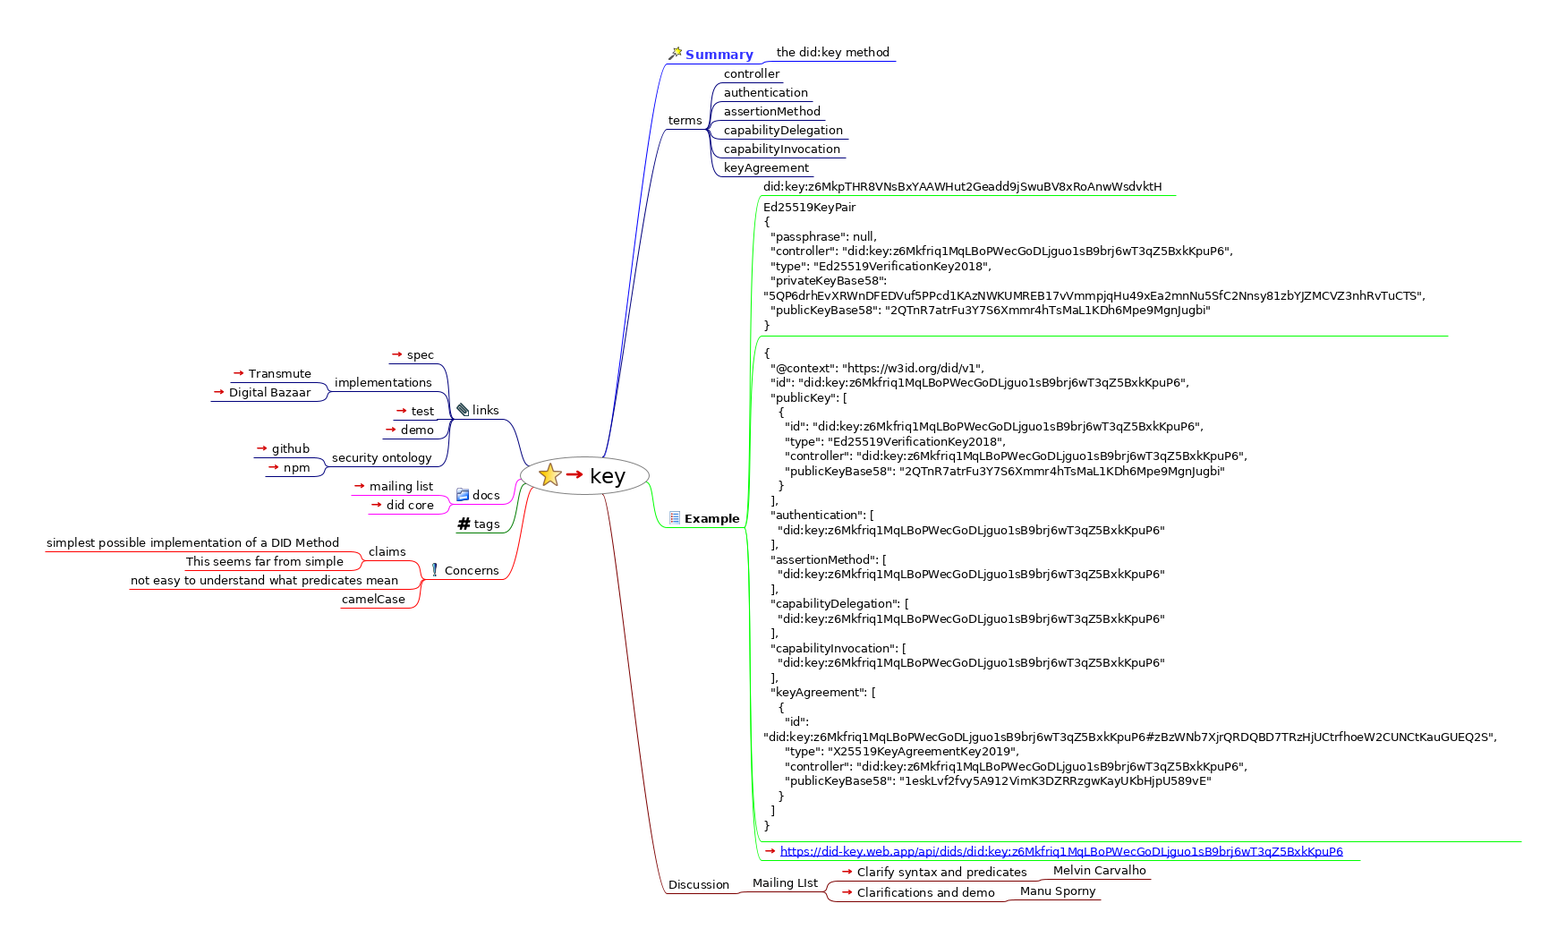
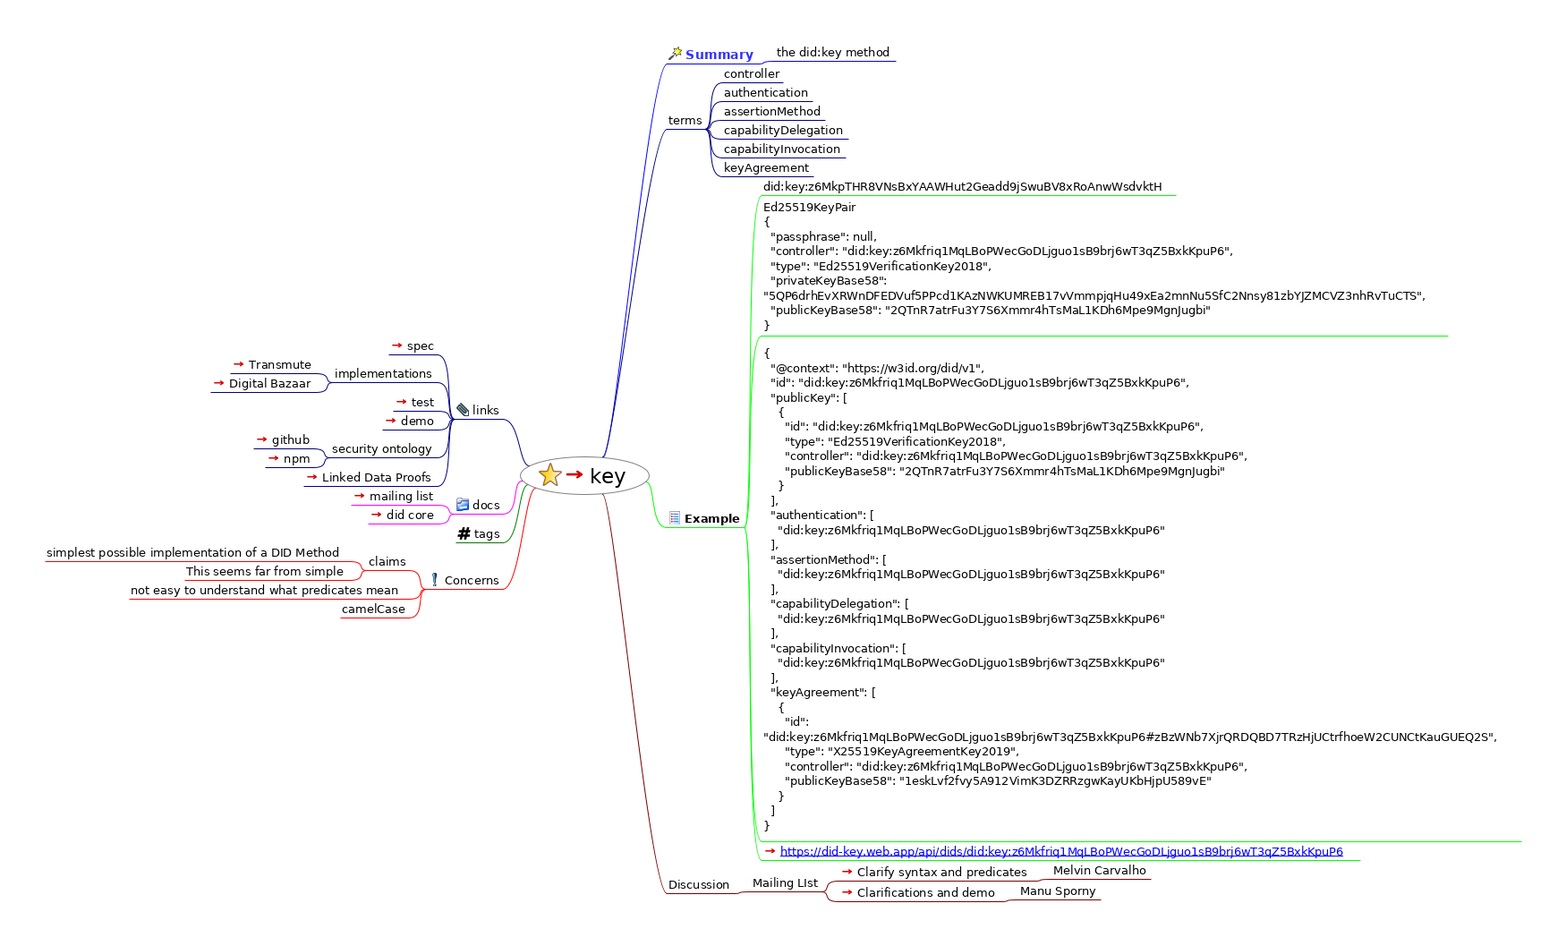
ld proofs

Changed region(s): [[0.0309, 0.3434, 0.3394, 0.6556]]

diff --git a/w3c/did/key.html b/w3c/did/key.html
@@ -53,28 +53,29 @@
 <area shape="rect" href="https://lists.w3.org/Archives/Public/public-credentials/2019Nov/0101.html" alt="Clarifications and demo" title="Clarifications and demo" coords="937,989,1119,1007" />
 <area shape="rect" href="#FMID_1746695661FM" alt="Manu Sporny" title="Manu Sporny" coords="1138,987,1230,1005" />
 <area shape="rect" href="#FMID_808607355FM" alt="links" title="links" coords="508,450,562,468" />
-<area shape="rect" href="https://digitalbazaar.github.io/did-method-key/" alt="spec" title="spec" coords="434,388,489,406" />
-<area shape="rect" href="#FMID_266162917FM" alt="implementations" title="implementations" coords="372,419,489,437" />
-<area shape="rect" href="https://github.com/transmute-industries/did-key" alt="Transmute" title="Transmute" coords="257,409,353,427" />
-<area shape="rect" href="https://github.com/digitalbazaar/did-method-key-js#table-of-contents" alt="Digital Bazaar" title="Digital Bazaar" coords="235,430,353,448" />
-<area shape="rect" href="https://github.com/digitalbazaar/did-method-key-js/blob/master/tests/driver.spec.js" alt="test" title="test" coords="439,451,489,469" />
-<area shape="rect" href="https://did-key.web.app/" alt="demo" title="demo" coords="427,472,489,490" />
-<area shape="rect" href="#FMID_1879313086FM" alt="security ontology" title="security ontology" coords="369,503,489,521" />
-<area shape="rect" href="https://github.com/w3c-dvcg/security-vocab/blob/master/contexts/security-v2.jsonld#L39" alt="github" title="github" coords="283,493,350,511" />
-<area shape="rect" href="https://www.npmjs.com/package/security-context" alt="npm" title="npm" coords="296,514,350,532" />
-<area shape="rect" href="#FMID_1100215200FM" alt="docs" title="docs" coords="508,545,562,563" />
-<area shape="rect" href="https://lists.w3.org/Archives/Public/public-credentials/2019Nov/thread.html" alt="mailing list" title="mailing list" coords="392,535,489,553" />
-<area shape="rect" href="https://w3c.github.io/did-core/" alt="did core" title="did core" coords="411,556,489,574" />
-<area shape="rect" href="#FMID_466759422FM" alt="tags" title="tags" coords="509,577,562,595" />
-<area shape="rect" href="#FMID_1414960960FM" alt="Concerns" title="Concerns" coords="476,629,562,647" />
-<area shape="rect" href="#FMID_1039236328FM" alt="claims" title="claims" coords="410,608,457,626" />
-<area shape="rect" href="#FMID_1634354247FM" alt="simplest possible implementation of a DI ..." title="simplest possible implementation of a DI ..." coords="50,598,391,616" />
-<area shape="rect" href="#FMID_1386411919FM" alt="This seems far from simple" title="This seems far from simple" coords="206,619,391,637" />
-<area shape="rect" href="#FMID_139120582FM" alt="not easy to understand what predicates m ..." title="not easy to understand what predicates m ..." coords="144,640,457,658" />
-<area shape="rect" href="#FMID_342298248FM" alt="camelCase" title="camelCase" coords="380,661,457,679" />
+<area shape="rect" href="https://digitalbazaar.github.io/did-method-key/" alt="spec" title="spec" coords="434,378,489,396" />
+<area shape="rect" href="#FMID_266162917FM" alt="implementations" title="implementations" coords="372,409,489,427" />
+<area shape="rect" href="https://github.com/transmute-industries/did-key" alt="Transmute" title="Transmute" coords="257,399,353,417" />
+<area shape="rect" href="https://github.com/digitalbazaar/did-method-key-js#table-of-contents" alt="Digital Bazaar" title="Digital Bazaar" coords="235,420,353,438" />
+<area shape="rect" href="https://github.com/digitalbazaar/did-method-key-js/blob/master/tests/driver.spec.js" alt="test" title="test" coords="439,441,489,459" />
+<area shape="rect" href="https://did-key.web.app/" alt="demo" title="demo" coords="427,462,489,480" />
+<area shape="rect" href="#FMID_1879313086FM" alt="security ontology" title="security ontology" coords="369,493,489,511" />
+<area shape="rect" href="https://github.com/w3c-dvcg/security-vocab/blob/master/contexts/security-v2.jsonld#L39" alt="github" title="github" coords="283,483,350,501" />
+<area shape="rect" href="https://www.npmjs.com/package/security-context" alt="npm" title="npm" coords="296,504,350,522" />
+<area shape="rect" href="https://w3c-dvcg.github.io/ld-proofs/#proof-purpose" alt="Linked Data Proofs" title="Linked Data Proofs" coords="339,525,489,543" />
+<area shape="rect" href="#FMID_1100215200FM" alt="docs" title="docs" coords="508,556,562,574" />
+<area shape="rect" href="https://lists.w3.org/Archives/Public/public-credentials/2019Nov/thread.html" alt="mailing list" title="mailing list" coords="392,546,489,564" />
+<area shape="rect" href="https://w3c.github.io/did-core/" alt="did core" title="did core" coords="411,567,489,585" />
+<area shape="rect" href="#FMID_466759422FM" alt="tags" title="tags" coords="509,588,562,606" />
+<area shape="rect" href="#FMID_1414960960FM" alt="Concerns" title="Concerns" coords="476,640,562,658" />
+<area shape="rect" href="#FMID_1039236328FM" alt="claims" title="claims" coords="410,619,457,637" />
+<area shape="rect" href="#FMID_1634354247FM" alt="simplest possible implementation of a DI ..." title="simplest possible implementation of a DI ..." coords="50,609,391,627" />
+<area shape="rect" href="#FMID_1386411919FM" alt="This seems far from simple" title="This seems far from simple" coords="206,630,391,648" />
+<area shape="rect" href="#FMID_139120582FM" alt="not easy to understand what predicates m ..." title="not easy to understand what predicates m ..." coords="144,651,457,669" />
+<area shape="rect" href="#FMID_342298248FM" alt="camelCase" title="camelCase" coords="380,672,457,690" />
 </map>
 
[1 lines of base64/hex data omitted]
     <a http-equiv="content-type" content="text/html; charset=utf-8" href="https://did-key.web.app/api/dids/did:key:z6Mkfriq1MqLBoPWecGoDLjguo1sB9brj6wT3qZ5BxkKpuP6">https://did-key.web.app/api/dids/did:key:z6Mkfriq1MqLBoPWecGoDLjguo1sB9brj6wT3qZ5BxkKpuP6</a>
-  </a> <a href="https://did-key.web.app/api/dids/did:key:z6Mkfriq1MqLBoPWecGoDLjguo1sB9brj6wT3qZ5BxkKpuP6"><img src="key.html_files/ilink.png" alt="User Link" style="border-width:0" /></a></div></div></div></div><div class="node"><img src="key.html_files/hide.png" class="hideshow" alt="hide" onClick="toggle(&quot;N66981&quot;)" id="imgN66981" /><a id="FMID_387619455FM" /><div class="nodecontent" style="color:#000000;font-size:83%;">Discussion</div><div class="content" id="N66981"><div class="node"><img src="key.html_files/hide.png" class="hideshow" alt="hide" onClick="toggle(&quot;N67017&quot;)" id="imgN67017" /><a id="FMID_142448183FM" /><div class="nodecontent" style="color:#000000;font-size:83%;">Mailing LIst</div><div class="content" id="N67017"><div class="node"><img src="key.html_files/hide.png" class="hideshow" alt="hide" onClick="toggle(&quot;N67052&quot;)" id="imgN67052" /><a id="FMID_1424305860FM" /><div class="nodecontent" style="color:#000000;font-size:83%;"><a href="https://lists.w3.org/Archives/Public/public-credentials/2019Nov/0099.html">Clarify syntax and predicates</a> <a href="https://lists.w3.org/Archives/Public/public-credentials/2019Nov/0099.html"><img src="key.html_files/ilink.png" alt="User Link" style="border-width:0" /></a></div><div class="content" id="N67052"><div class="node"><img src="key.html_files/leaf.png" class="hideshow" alt="leaf" /><a id="FMID_1445806045FM" /><div class="nodecontent" style="color:#000000;font-size:83%;">Melvin Carvalho</div></div></div></div><div class="node"><img src="key.html_files/hide.png" class="hideshow" alt="hide" onClick="toggle(&quot;N67125&quot;)" id="imgN67125" /><a id="FMID_527755790FM" /><div class="nodecontent" style="color:#000000;font-size:83%;"><a href="https://lists.w3.org/Archives/Public/public-credentials/2019Nov/0101.html">Clarifications and demo</a> <a href="https://lists.w3.org/Archives/Public/public-credentials/2019Nov/0101.html"><img src="key.html_files/ilink.png" alt="User Link" style="border-width:0" /></a></div><div class="content" id="N67125"><div class="node"><img src="key.html_files/leaf.png" class="hideshow" alt="leaf" /><a id="FMID_1746695661FM" /><div class="nodecontent" style="color:#000000;font-size:83%;">Manu Sporny</div></div></div></div></div></div></div></div><div class="node"><img src="key.html_files/hide.png" class="hideshow" alt="hide" onClick="toggle(&quot;N67200&quot;)" id="imgN67200" /><img src="key.html_files/icons/attach.svg" alt="attach" /> <a id="FMID_808607355FM" /><div class="nodecontent" style="color:#000000;font-size:83%;">links</div><div class="content" id="N67200"><div class="node"><img src="key.html_files/leaf.png" class="hideshow" alt="leaf" /><a id="FMID_674273555FM" /><div class="nodecontent" style="color:#000000;font-size:83%;"><a href="https://digitalbazaar.github.io/did-method-key/">spec</a> <a href="https://digitalbazaar.github.io/did-method-key/"><img src="key.html_files/ilink.png" alt="User Link" style="border-width:0" /></a></div></div><div class="node"><img src="key.html_files/hide.png" class="hideshow" alt="hide" onClick="toggle(&quot;N67278&quot;)" id="imgN67278" /><a id="FMID_266162917FM" /><div class="nodecontent" style="color:#000000;font-size:83%;">implementations</div><div class="content" id="N67278"><div class="node"><img src="key.html_files/leaf.png" class="hideshow" alt="leaf" /><a id="FMID_699814464FM" /><div class="nodecontent" style="color:#000000;font-size:83%;"><a href="https://github.com/transmute-industries/did-key">Transmute</a> <a href="https://github.com/transmute-industries/did-key"><img src="key.html_files/ilink.png" alt="User Link" style="border-width:0" /></a></div></div><div class="node"><img src="key.html_files/leaf.png" class="hideshow" alt="leaf" /><a id="FMID_20457538FM" /><div class="nodecontent" style="color:#000000;font-size:83%;"><a href="https://github.com/digitalbazaar/did-method-key-js#table-of-contents">Digital Bazaar</a> <a href="https://github.com/digitalbazaar/did-method-key-js#table-of-contents"><img src="key.html_files/ilink.png" alt="User Link" style="border-width:0" /></a></div></div></div></div><div class="node"><img src="key.html_files/leaf.png" class="hideshow" alt="leaf" /><a id="FMID_1984008598FM" /><div class="nodecontent" style="color:#000000;font-size:83%;"><a href="https://github.com/digitalbazaar/did-method-key-js/blob/master/tests/driver.spec.js">test</a> <a href="https://github.com/digitalbazaar/did-method-key-js/blob/master/tests/driver.spec.js"><img src="key.html_files/ilink.png" alt="User Link" style="border-width:0" /></a></div></div><div class="node"><img src="key.html_files/leaf.png" class="hideshow" alt="leaf" /><a id="FMID_863930071FM" /><div class="nodecontent" style="color:#000000;font-size:83%;"><a href="https://did-key.web.app/">demo</a> <a href="https://did-key.web.app/"><img src="key.html_files/ilink.png" alt="User Link" style="border-width:0" /></a></div></div><div class="node"><img src="key.html_files/hide.png" class="hideshow" alt="hide" onClick="toggle(&quot;N67462&quot;)" id="imgN67462" /><a id="FMID_1879313086FM" /><div class="nodecontent" style="color:#000000;font-size:83%;">security ontology</div><div class="content" id="N67462"><div class="node"><img src="key.html_files/leaf.png" class="hideshow" alt="leaf" /><a id="FMID_1802414645FM" /><div class="nodecontent" style="color:#000000;font-size:83%;"><a href="https://github.com/w3c-dvcg/security-vocab/blob/master/contexts/security-v2.jsonld#L39">github</a> <a href="https://github.com/w3c-dvcg/security-vocab/blob/master/contexts/security-v2.jsonld#L39"><img src="key.html_files/ilink.png" alt="User Link" style="border-width:0" /></a></div></div><div class="node"><img src="key.html_files/leaf.png" class="hideshow" alt="leaf" /><a id="FMID_689455920FM" /><div class="nodecontent" style="color:#000000;font-size:83%;"><a href="https://www.npmjs.com/package/security-context">npm</a> <a href="https://www.npmjs.com/package/security-context"><img src="key.html_files/ilink.png" alt="User Link" style="border-width:0" /></a></div></div></div></div></div></div><div class="node"><img src="key.html_files/hide.png" class="hideshow" alt="hide" onClick="toggle(&quot;N67573&quot;)" id="imgN67573" /><img src="key.html_files/icons/folder.svg" alt="folder" /> <a id="FMID_1100215200FM" /><div class="nodecontent" style="color:#000000;font-size:83%;">docs</div><div class="content" id="N67573"><div class="node"><img src="key.html_files/leaf.png" class="hideshow" alt="leaf" /><a id="FMID_307060603FM" /><div class="nodecontent" style="color:#000000;font-size:83%;"><a href="https://lists.w3.org/Archives/Public/public-credentials/2019Nov/thread.html">mailing list</a> <a href="https://lists.w3.org/Archives/Public/public-credentials/2019Nov/thread.html"><img src="key.html_files/ilink.png" alt="User Link" style="border-width:0" /></a></div></div><div class="node"><img src="key.html_files/leaf.png" class="hideshow" alt="leaf" /><a id="FMID_1309388462FM" /><div class="nodecontent" style="color:#000000;font-size:83%;"><a href="https://w3c.github.io/did-core/">did core</a> <a href="https://w3c.github.io/did-core/"><img src="key.html_files/ilink.png" alt="User Link" style="border-width:0" /></a></div></div></div></div><div class="node"><img src="key.html_files/leaf.png" class="hideshow" alt="leaf" /><img src="key.html_files/icons/hashtag.png" alt="hashtag" /> <a id="FMID_466759422FM" /><div class="nodecontent" style="color:#000000;font-size:83%;">tags</div></div><div class="node"><img src="key.html_files/hide.png" class="hideshow" alt="hide" onClick="toggle(&quot;N67731&quot;)" id="imgN67731" /><img src="key.html_files/icons/yes.svg" alt="yes" /> <a id="FMID_1414960960FM" /><div class="nodecontent" style="color:#000000;font-size:83%;">Concerns</div><div class="content" id="N67731"><div class="node"><img src="key.html_files/hide.png" class="hideshow" alt="hide" onClick="toggle(&quot;N67772&quot;)" id="imgN67772" /><a id="FMID_1039236328FM" /><div class="nodecontent" style="color:#000000;font-size:83%;">claims</div><div class="content" id="N67772"><div class="node"><img src="key.html_files/leaf.png" class="hideshow" alt="leaf" /><a id="FMID_1634354247FM" /><div class="nodecontent" style="color:#000000;font-size:83%;">simplest possible implementation of a DID Method</div></div><div class="node"><img src="key.html_files/leaf.png" class="hideshow" alt="leaf" /><a id="FMID_1386411919FM" /><div class="nodecontent" style="color:#000000;font-size:83%;">This seems far from simple</div></div></div></div><div class="node"><img src="key.html_files/leaf.png" class="hideshow" alt="leaf" /><a id="FMID_139120582FM" /><div class="nodecontent" style="color:#000000;font-size:83%;">not easy to understand what predicates mean</div></div><div class="node"><img src="key.html_files/leaf.png" class="hideshow" alt="leaf" /><a id="FMID_342298248FM" /><div class="nodecontent" style="color:#000000;font-size:83%;">camelCase</div></div></div></div></div></div>
+  </a> <a href="https://did-key.web.app/api/dids/did:key:z6Mkfriq1MqLBoPWecGoDLjguo1sB9brj6wT3qZ5BxkKpuP6"><img src="key.html_files/ilink.png" alt="User Link" style="border-width:0" /></a></div></div></div></div><div class="node"><img src="key.html_files/hide.png" class="hideshow" alt="hide" onClick="toggle(&quot;N66981&quot;)" id="imgN66981" /><a id="FMID_387619455FM" /><div class="nodecontent" style="color:#000000;font-size:83%;">Discussion</div><div class="content" id="N66981"><div class="node"><img src="key.html_files/hide.png" class="hideshow" alt="hide" onClick="toggle(&quot;N67017&quot;)" id="imgN67017" /><a id="FMID_142448183FM" /><div class="nodecontent" style="color:#000000;font-size:83%;">Mailing LIst</div><div class="content" id="N67017"><div class="node"><img src="key.html_files/hide.png" class="hideshow" alt="hide" onClick="toggle(&quot;N67052&quot;)" id="imgN67052" /><a id="FMID_1424305860FM" /><div class="nodecontent" style="color:#000000;font-size:83%;"><a href="https://lists.w3.org/Archives/Public/public-credentials/2019Nov/0099.html">Clarify syntax and predicates</a> <a href="https://lists.w3.org/Archives/Public/public-credentials/2019Nov/0099.html"><img src="key.html_files/ilink.png" alt="User Link" style="border-width:0" /></a></div><div class="content" id="N67052"><div class="node"><img src="key.html_files/leaf.png" class="hideshow" alt="leaf" /><a id="FMID_1445806045FM" /><div class="nodecontent" style="color:#000000;font-size:83%;">Melvin Carvalho</div></div></div></div><div class="node"><img src="key.html_files/hide.png" class="hideshow" alt="hide" onClick="toggle(&quot;N67125&quot;)" id="imgN67125" /><a id="FMID_527755790FM" /><div class="nodecontent" style="color:#000000;font-size:83%;"><a href="https://lists.w3.org/Archives/Public/public-credentials/2019Nov/0101.html">Clarifications and demo</a> <a href="https://lists.w3.org/Archives/Public/public-credentials/2019Nov/0101.html"><img src="key.html_files/ilink.png" alt="User Link" style="border-width:0" /></a></div><div class="content" id="N67125"><div class="node"><img src="key.html_files/leaf.png" class="hideshow" alt="leaf" /><a id="FMID_1746695661FM" /><div class="nodecontent" style="color:#000000;font-size:83%;">Manu Sporny</div></div></div></div></div></div></div></div><div class="node"><img src="key.html_files/hide.png" class="hideshow" alt="hide" onClick="toggle(&quot;N67200&quot;)" id="imgN67200" /><img src="key.html_files/icons/attach.svg" alt="attach" /> <a id="FMID_808607355FM" /><div class="nodecontent" style="color:#000000;font-size:83%;">links</div><div class="content" id="N67200"><div class="node"><img src="key.html_files/leaf.png" class="hideshow" alt="leaf" /><a id="FMID_674273555FM" /><div class="nodecontent" style="color:#000000;font-size:83%;"><a href="https://digitalbazaar.github.io/did-method-key/">spec</a> <a href="https://digitalbazaar.github.io/did-method-key/"><img src="key.html_files/ilink.png" alt="User Link" style="border-width:0" /></a></div></div><div class="node"><img src="key.html_files/hide.png" class="hideshow" alt="hide" onClick="toggle(&quot;N67278&quot;)" id="imgN67278" /><a id="FMID_266162917FM" /><div class="nodecontent" style="color:#000000;font-size:83%;">implementations</div><div class="content" id="N67278"><div class="node"><img src="key.html_files/leaf.png" class="hideshow" alt="leaf" /><a id="FMID_699814464FM" /><div class="nodecontent" style="color:#000000;font-size:83%;"><a href="https://github.com/transmute-industries/did-key">Transmute</a> <a href="https://github.com/transmute-industries/did-key"><img src="key.html_files/ilink.png" alt="User Link" style="border-width:0" /></a></div></div><div class="node"><img src="key.html_files/leaf.png" class="hideshow" alt="leaf" /><a id="FMID_20457538FM" /><div class="nodecontent" style="color:#000000;font-size:83%;"><a href="https://github.com/digitalbazaar/did-method-key-js#table-of-contents">Digital Bazaar</a> <a href="https://github.com/digitalbazaar/did-method-key-js#table-of-contents"><img src="key.html_files/ilink.png" alt="User Link" style="border-width:0" /></a></div></div></div></div><div class="node"><img src="key.html_files/leaf.png" class="hideshow" alt="leaf" /><a id="FMID_1984008598FM" /><div class="nodecontent" style="color:#000000;font-size:83%;"><a href="https://github.com/digitalbazaar/did-method-key-js/blob/master/tests/driver.spec.js">test</a> <a href="https://github.com/digitalbazaar/did-method-key-js/blob/master/tests/driver.spec.js"><img src="key.html_files/ilink.png" alt="User Link" style="border-width:0" /></a></div></div><div class="node"><img src="key.html_files/leaf.png" class="hideshow" alt="leaf" /><a id="FMID_863930071FM" /><div class="nodecontent" style="color:#000000;font-size:83%;"><a href="https://did-key.web.app/">demo</a> <a href="https://did-key.web.app/"><img src="key.html_files/ilink.png" alt="User Link" style="border-width:0" /></a></div></div><div class="node"><img src="key.html_files/hide.png" class="hideshow" alt="hide" onClick="toggle(&quot;N67462&quot;)" id="imgN67462" /><a id="FMID_1879313086FM" /><div class="nodecontent" style="color:#000000;font-size:83%;">security ontology</div><div class="content" id="N67462"><div class="node"><img src="key.html_files/leaf.png" class="hideshow" alt="leaf" /><a id="FMID_1802414645FM" /><div class="nodecontent" style="color:#000000;font-size:83%;"><a href="https://github.com/w3c-dvcg/security-vocab/blob/master/contexts/security-v2.jsonld#L39">github</a> <a href="https://github.com/w3c-dvcg/security-vocab/blob/master/contexts/security-v2.jsonld#L39"><img src="key.html_files/ilink.png" alt="User Link" style="border-width:0" /></a></div></div><div class="node"><img src="key.html_files/leaf.png" class="hideshow" alt="leaf" /><a id="FMID_689455920FM" /><div class="nodecontent" style="color:#000000;font-size:83%;"><a href="https://www.npmjs.com/package/security-context">npm</a> <a href="https://www.npmjs.com/package/security-context"><img src="key.html_files/ilink.png" alt="User Link" style="border-width:0" /></a></div></div></div></div><div class="node"><img src="key.html_files/leaf.png" class="hideshow" alt="leaf" /><a id="FMID_320437573FM" /><div class="nodecontent" style="color:#000000;font-size:83%;"><a href="https://w3c-dvcg.github.io/ld-proofs/#proof-purpose">Linked Data Proofs</a> <a href="https://w3c-dvcg.github.io/ld-proofs/#proof-purpose"><img src="key.html_files/ilink.png" alt="User Link" style="border-width:0" /></a></div></div></div></div><div class="node"><img src="key.html_files/hide.png" class="hideshow" alt="hide" onClick="toggle(&quot;N67610&quot;)" id="imgN67610" /><img src="key.html_files/icons/folder.svg" alt="folder" /> <a id="FMID_1100215200FM" /><div class="nodecontent" style="color:#000000;font-size:83%;">docs</div><div class="content" id="N67610"><div class="node"><img src="key.html_files/leaf.png" class="hideshow" alt="leaf" /><a id="FMID_307060603FM" /><div class="nodecontent" style="color:#000000;font-size:83%;"><a href="https://lists.w3.org/Archives/Public/public-credentials/2019Nov/thread.html">mailing list</a> <a href="https://lists.w3.org/Archives/Public/public-credentials/2019Nov/thread.html"><img src="key.html_files/ilink.png" alt="User Link" style="border-width:0" /></a></div></div><div class="node"><img src="key.html_files/leaf.png" class="hideshow" alt="leaf" /><a id="FMID_1309388462FM" /><div class="nodecontent" style="color:#000000;font-size:83%;"><a href="https://w3c.github.io/did-core/">did core</a> <a href="https://w3c.github.io/did-core/"><img src="key.html_files/ilink.png" alt="User Link" style="border-width:0" /></a></div></div></div></div><div class="node"><img src="key.html_files/leaf.png" class="hideshow" alt="leaf" /><img src="key.html_files/icons/hashtag.png" alt="hashtag" /> <a id="FMID_466759422FM" /><div class="nodecontent" style="color:#000000;font-size:83%;">tags</div></div><div class="node"><img src="key.html_files/hide.png" class="hideshow" alt="hide" onClick="toggle(&quot;N67768&quot;)" id="imgN67768" /><img src="key.html_files/icons/yes.svg" alt="yes" /> <a id="FMID_1414960960FM" /><div class="nodecontent" style="color:#000000;font-size:83%;">Concerns</div><div class="content" id="N67768"><div class="node"><img src="key.html_files/hide.png" class="hideshow" alt="hide" onClick="toggle(&quot;N67809&quot;)" id="imgN67809" /><a id="FMID_1039236328FM" /><div class="nodecontent" style="color:#000000;font-size:83%;">claims</div><div class="content" id="N67809"><div class="node"><img src="key.html_files/leaf.png" class="hideshow" alt="leaf" /><a id="FMID_1634354247FM" /><div class="nodecontent" style="color:#000000;font-size:83%;">simplest possible implementation of a DID Method</div></div><div class="node"><img src="key.html_files/leaf.png" class="hideshow" alt="leaf" /><a id="FMID_1386411919FM" /><div class="nodecontent" style="color:#000000;font-size:83%;">This seems far from simple</div></div></div></div><div class="node"><img src="key.html_files/leaf.png" class="hideshow" alt="leaf" /><a id="FMID_139120582FM" /><div class="nodecontent" style="color:#000000;font-size:83%;">not easy to understand what predicates mean</div></div><div class="node"><img src="key.html_files/leaf.png" class="hideshow" alt="leaf" /><a id="FMID_342298248FM" /><div class="nodecontent" style="color:#000000;font-size:83%;">camelCase</div></div></div></div></div></div>
 </body></html>

diff --git a/w3c/did/key.mm b/w3c/did/key.mm
@@ -125,6 +125,7 @@
 <node TEXT="github" ID="ID_1802414645" CREATED="1574615757154" MODIFIED="1574615762248" LINK="https://github.com/w3c-dvcg/security-vocab/blob/master/contexts/security-v2.jsonld#L39"/>
 <node TEXT="npm" ID="ID_689455920" CREATED="1574615779364" MODIFIED="1574615786303" LINK="https://www.npmjs.com/package/security-context"/>
 </node>
+<node TEXT="Linked Data Proofs" ID="ID_320437573" CREATED="1574630005169" MODIFIED="1574630028486" LINK="https://w3c-dvcg.github.io/ld-proofs/#proof-purpose"/>
 </node>
 <node TEXT="docs" POSITION="left" ID="ID_1100215200" CREATED="1570969039178" MODIFIED="1570980265221">
 <icon BUILTIN="folder"/>
